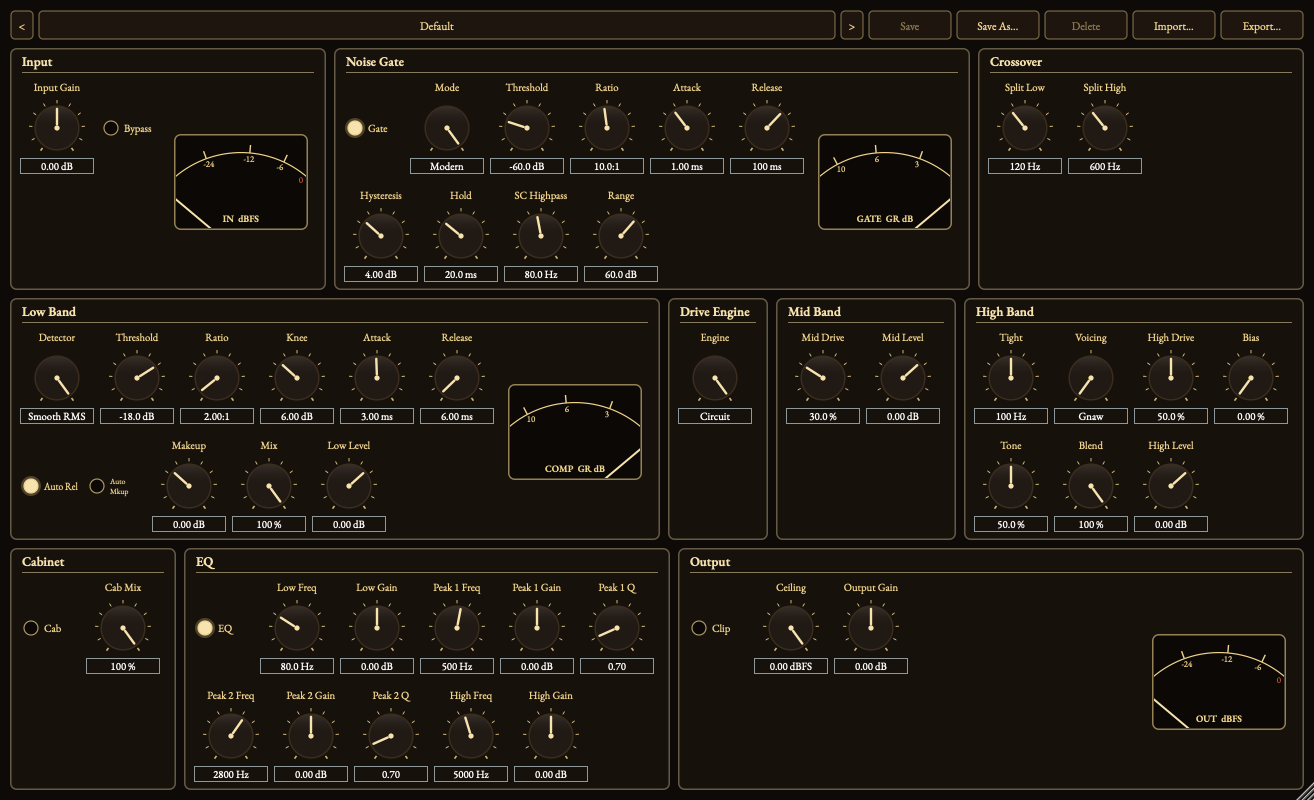
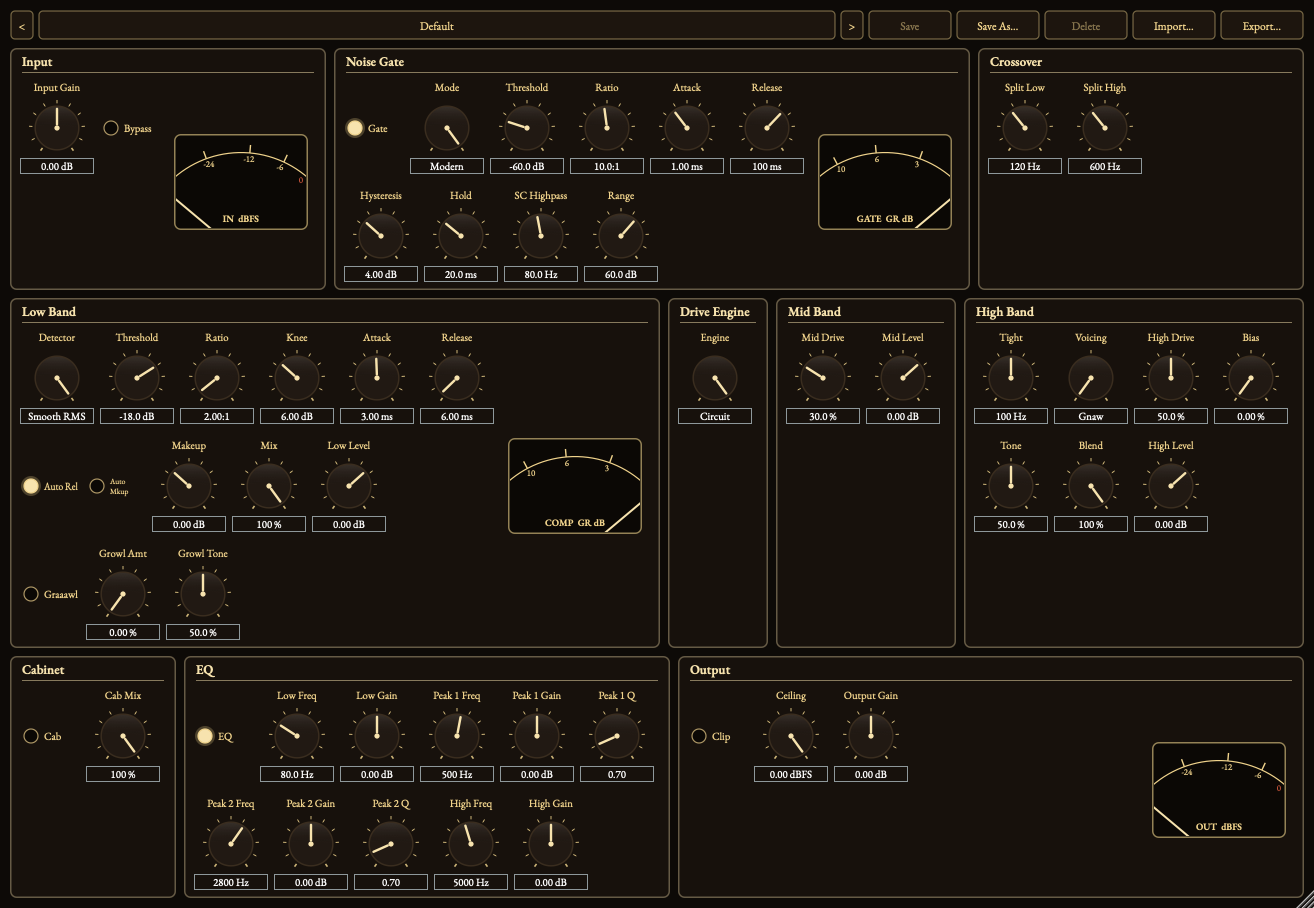
feat(gui): put the three Graaawl controls on the Low Band panel
The custom vector editor (#79) asserts its parameter coverage exactly, so the
three parameters this branch adds would otherwise ship as a half-feature: on
the APVTS and in every host's automation list, but absent from the plugin's
own front panel. The coverage assertion going red is that check working, so
the fix is to wire the controls rather than to relax the count.

Follows the wiring the GUI lane specified in the PR discussion: a lamp toggle
plus two knobs in the Low Band panel. They sit in a row of their own, after
Low Level and before the compressor's GR meter, so the panel's reading order -
which is also its keyboard focus order - still matches the order processChunk()
applies things in. Labels are "Graaawl", "Growl Amt" and "Growl Tone"; the
short forms keep every control title unique across the editor, which the
wiring test requires.

Counts bumped where the surface is pinned: 51 -> 54 parameters, 44 -> 46
knobs, 7 -> 8 toggles, 55 -> 58 non-overlapping entries, across
EditorLayoutTests, EditorAccessibilityTests and EditorScaleTests.
docs/gui-mapping.md gains the three rows in creation order, and
docs/gui-preview.png is REGENERATED from the real editor by the GUI suite
rather than hand-edited.

231/231 tests pass.

diff --git a/tests/gui/EditorLayoutTests.cpp b/tests/gui/EditorLayoutTests.cpp
@@ -70,13 +70,14 @@ TEST_CASE ("Every automatable parameter has exactly one attached control", "[gui
     visitDescendants<juce::Slider> (editor, [&] (juce::Slider&) { ++sliders; });
     visitDescendants<juce::ToggleButton> (editor, [&] (juce::ToggleButton&) { ++toggles; });
 
-    // The APVTS carries 40 float + 4 choice + 7 bool parameters = 51
-    // (src/params/ParameterIds.h). One knob per float/choice parameter, one
-    // toggle per bool parameter - no parameter may be left off the surface,
-    // and no control may exist without a parameter.
-    CHECK ((int) processor.getParameters().size() == 51);
-    CHECK (sliders == 44);
-    CHECK (toggles == 7);
+    // The APVTS carries 42 float + 4 choice + 8 bool parameters = 54
+    // (src/params/ParameterIds.h; v0.4.0 added the three Graaawl controls to
+    // the Low Band panel). One knob per float/choice parameter, one toggle per
+    // bool parameter - no parameter may be left off the surface, and no
+    // control may exist without a parameter.
+    CHECK ((int) processor.getParameters().size() == 54);
+    CHECK (sliders == 46);
+    CHECK (toggles == 8);
     CHECK (sliders + toggles == (int) processor.getParameters().size());
 }
 
@@ -174,7 +175,7 @@ TEST_CASE ("All controls, labels and meters stay inside their panel; panels stay
         CHECK (s.getY() >= basilica::gui::BusPanel::headerHeight);
     });
 
-    CHECK (controlsBelowHeader == 44);
+    CHECK (controlsBelowHeader == 46);
 }
 
 TEST_CASE ("No two interactive controls or meters overlap", "[gui][layout]")
@@ -200,9 +201,9 @@ TEST_CASE ("No two interactive controls or meters overlap", "[gui][layout]")
     visitDescendants<juce::ToggleButton> (editor, [&] (juce::ToggleButton& t) { collect (t); });
     visitDescendants<basilica::gui::NeedleMeter> (editor, [&] (basilica::gui::NeedleMeter& m) { collect (m); });
 
-    // 44 knobs + 7 toggles + 4 meters - the pairwise scan below must not
+    // 46 knobs + 8 toggles + 4 meters - the pairwise scan below must not
     // pass vacuously on an empty collection.
-    REQUIRE (entries.size() == 55);
+    REQUIRE (entries.size() == 58);
 
     for (size_t i = 0; i < entries.size(); ++i)
     {
@@ -277,8 +278,8 @@ TEST_CASE ("Every knob's visible label text matches its accessible title (label-
         }
     });
 
-    // Every one of the 44 knobs carries an attached, matching label.
-    CHECK (labelledKnobs == 44);
+    // Every one of the 46 knobs carries an attached, matching label.
+    CHECK (labelledKnobs == 46);
 
     // Toggles carry their own legend, which must equally match their title.
     int toggleCount = 0;
@@ -289,7 +290,7 @@ TEST_CASE ("Every knob's visible label text matches its accessible title (label-
         CHECK (toggle.getButtonText() == toggle.getTitle());
     });
 
-    CHECK (toggleCount == 7);
+    CHECK (toggleCount == 8);
 }
 
 TEST_CASE ("The section panels appear in signal-flow order, top-left to bottom-right", "[gui][layout]")

diff --git a/tests/gui/EditorAccessibilityTests.cpp b/tests/gui/EditorAccessibilityTests.cpp
@@ -226,7 +226,7 @@ TEST_CASE ("No knob ever displays more than two decimal places", "[gui][a11y]")
         ++knobsChecked;
     });
 
-    CHECK (knobsChecked == 44);
+    CHECK (knobsChecked == 46);
 }
 
 TEST_CASE ("Choice knobs announce the current choice by NAME, not by index", "[gui][a11y]")
@@ -295,11 +295,11 @@ TEST_CASE ("Every interactive control is keyboard-focusable and named", "[gui][a
         CHECK (toggle.getTitle().isNotEmpty());
     });
 
-    // 40 float + 4 choice parameters = 44 knobs; 7 bool parameters = 7
+    // 42 float + 4 choice parameters = 46 knobs; 8 bool parameters = 8
     // toggles (see src/params/ParameterIds.h). A zero-match walk must not
     // pass vacuously.
-    CHECK (slidersSeen == 44);
-    CHECK (togglesSeen == 7);
+    CHECK (slidersSeen == 46);
+    CHECK (togglesSeen == 8);
 
     // The preset bar's buttons are stock juce::TextButtons - focusable by
     // default, and none may have opted out. Save/Delete start DISABLED
@@ -368,7 +368,7 @@ TEST_CASE ("Keyboard focus order follows the signal flow", "[gui][a11y]")
     }
 
     // Every parameter control is reachable by Tab, exactly once.
-    CHECK (interactiveControls == 51);
+    CHECK (interactiveControls == 54);
 
     // The preset bar comes first (its 6 enabled buttons; Save and Delete
     // start disabled and are correctly out of the tab order).
@@ -610,7 +610,7 @@ TEST_CASE ("Each section is an accessibility focus container that does not trap 
     visitDescendants<juce::Slider> (editor, [&] (juce::Slider& s) { isInsideExactlyOnePanel (s); });
     visitDescendants<juce::ToggleButton> (editor, [&] (juce::ToggleButton& t) { isInsideExactlyOnePanel (t); });
 
-    CHECK (controlsChecked == 51);
+    CHECK (controlsChecked == 54);
 }
 
 TEST_CASE ("Needle meters expose a read-only, unit-suffixed accessible value per stage", "[gui][a11y]")

diff --git a/src/PluginEditor.cpp b/src/PluginEditor.cpp
@@ -153,6 +153,15 @@ CryptaAudioProcessorEditor::CryptaAudioProcessorEditor (CryptaAudioProcessor& pr
     addKnob (low, ParamIDs::lowCompMix, "Mix");
     addKnob (low, ParamIDs::lowLevel, "Low Level");
 
+    // v0.4.0 Graaawl (issue #36) gets its own row rather than being mixed into
+    // the compressor's control set: it is a separate mode on the low band, and
+    // it sits after the compressor in the signal path, so the reading order of
+    // this panel keeps matching the order processChunk() applies things in.
+    addRow (low);
+    addToggle (low, ParamIDs::lowGrowl, "Graaawl");
+    addKnob (low, ParamIDs::lowGrowlAmount, "Growl Amt");
+    addKnob (low, ParamIDs::lowGrowlTone, "Growl Tone");
+
     lowCompMeter = &addMeter (low, "Low band compressor gain reduction meter", "COMP",
                               basilica::gui::NeedleMeter::Scale::gainReductionDb);
 

diff --git a/tests/gui/EditorScaleTests.cpp b/tests/gui/EditorScaleTests.cpp
@@ -271,7 +271,7 @@ TEST_CASE ("Persisting the scale does not disturb parameter state", "[gui][scale
     restored.setStateInformation (savedState.getData(), (int) savedState.getSize());
 
     // Every parameter came back...
-    CHECK ((int) restored.getParameters().size() == 51);
+    CHECK ((int) restored.getParameters().size() == 54);
     CHECK (restored.apvts.getRawParameterValue ("highDrive")->load()
            == Catch::Approx (73.5f).margin (1.0e-2));
 
@@ -287,7 +287,7 @@ TEST_CASE ("Persisting the scale does not disturb parameter state", "[gui][scale
         if (child.hasType ("PARAM"))
             ++paramChildren;
 
-    CHECK (paramChildren == 51);
+    CHECK (paramChildren == 54);
 }
 
 TEST_CASE ("Loading a state saved before the scale existed opens at the default size", "[gui][scale][state]")

diff --git a/docs/qa-checklist.md b/docs/qa-checklist.md
@@ -28,7 +28,7 @@ release is gated on `main` being green.
 | Block-size independence | An oversized host block renders sample-identically to the same signal fed in properly-sized sub-blocks | `tests/ChunkingTests.cpp` |
 | No NaN/Inf, no crash on degenerate input | Denormal-range input, zero-sample buffers, bypassed and active | `tests/RobustnessTests.cpp` |
 | Deterministic render vs. committed goldens | Legacy v0.2.0 sessions still render identically under the current engine; the engaged safety clip stays inside its documented −40 dB null | `tests/GoldenRenderTests.cpp` |
-| State round-trip | Every parameter of the full set survives save → load; v2 state round-trips with all 51 parameters | `tests/StateTests.cpp`, `tests/StateMigrationTests.cpp` |
+| State round-trip | Every parameter of the full set survives save → load; v2 state round-trips with all 54 parameters | `tests/StateTests.cpp`, `tests/StateMigrationTests.cpp` |
 | State migration | v0.1 and v0.2 sessions migrate deterministically; explicit user choices are never overwritten | `tests/StateMigrationTests.cpp` |
 | Preset round-trip and rejection | Save → load restores every parameter; foreign-plugin and wrong-format presets are refused; every factory preset parses, loads and is in range | `tests/PresetManagerTests.cpp` |
 | `reset()` clears stage state | Silence right after a loud signal is actually silent | `tests/ResetTests.cpp` |

diff --git a/docs/manual.md b/docs/manual.md
@@ -70,7 +70,7 @@ A fresh instance loads a user "Default" preset if you've saved one ("Set current
 
 ## The interface
 
-The plugin window is laid out **in signal order**, left to right and top to bottom, in ten sections: Input, Noise Gate, Crossover, Low Band, Drive Engine, Mid Band, High Band, Cabinet, EQ, Output. Whatever you see further right or further down happens later in the chain. Every one of the plugin's 51 parameters is on the front panel — nothing is hidden behind a menu.
+The plugin window is laid out **in signal order**, left to right and top to bottom, in ten sections: Input, Noise Gate, Crossover, Low Band, Drive Engine, Mid Band, High Band, Cabinet, EQ, Output. Whatever you see further right or further down happens later in the chain. Every one of the plugin's 54 parameters is on the front panel — nothing is hidden behind a menu.
 
 **Knobs.** Drag up/down or left/right to turn; hold **Shift** while dragging for fine adjustment. Knobs with a fixed set of positions (Gate Mode, Low Comp Detector, Drive Engine, High Voicing) click into their detents and show the option's name. Double-click a value box to type an exact number.
 

diff --git a/docs/gui-mapping.md b/docs/gui-mapping.md
@@ -33,6 +33,9 @@ This table is the human-readable companion to the machine-checked one: `tests/gu
 | Low Band | Makeup | Knob | `lowCompMakeup` |
 | Low Band | Mix | Knob | `lowCompMix` |
 | Low Band | Low Level | Knob | `lowLevel` |
+| Low Band | Graaawl | Lamp toggle | `lowGrowl` |
+| Low Band | Growl Amt | Knob | `lowGrowlAmount` |
+| Low Band | Growl Tone | Knob | `lowGrowlTone` |
 | Low Band | COMP | Needle meter | — (reads `cryp::MeterTaps`) |
 | Drive Engine | Engine | Knob | `driveEngine` |
 | Mid Band | Mid Drive | Knob | `midDrive` |
